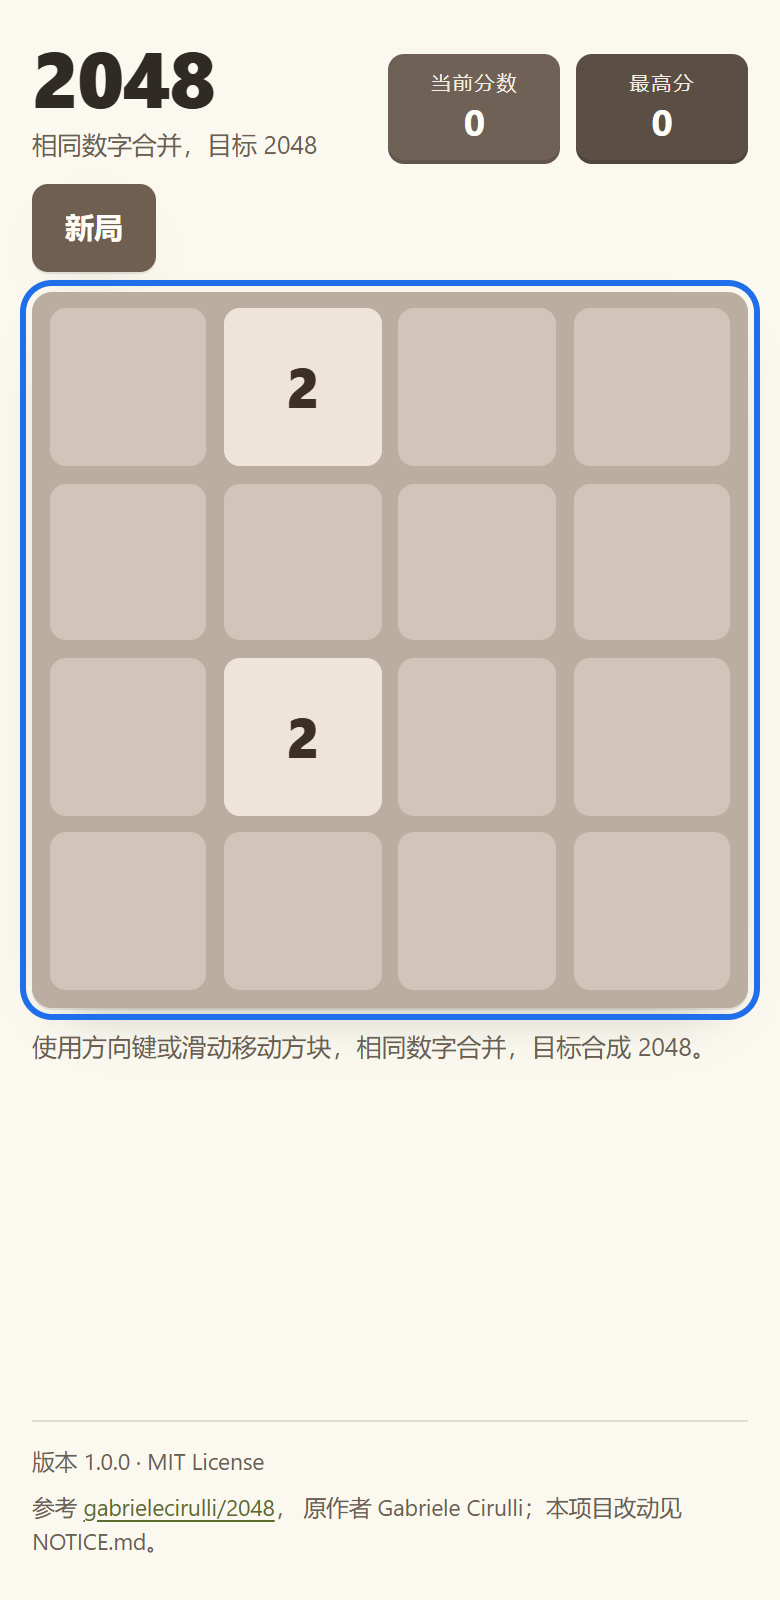
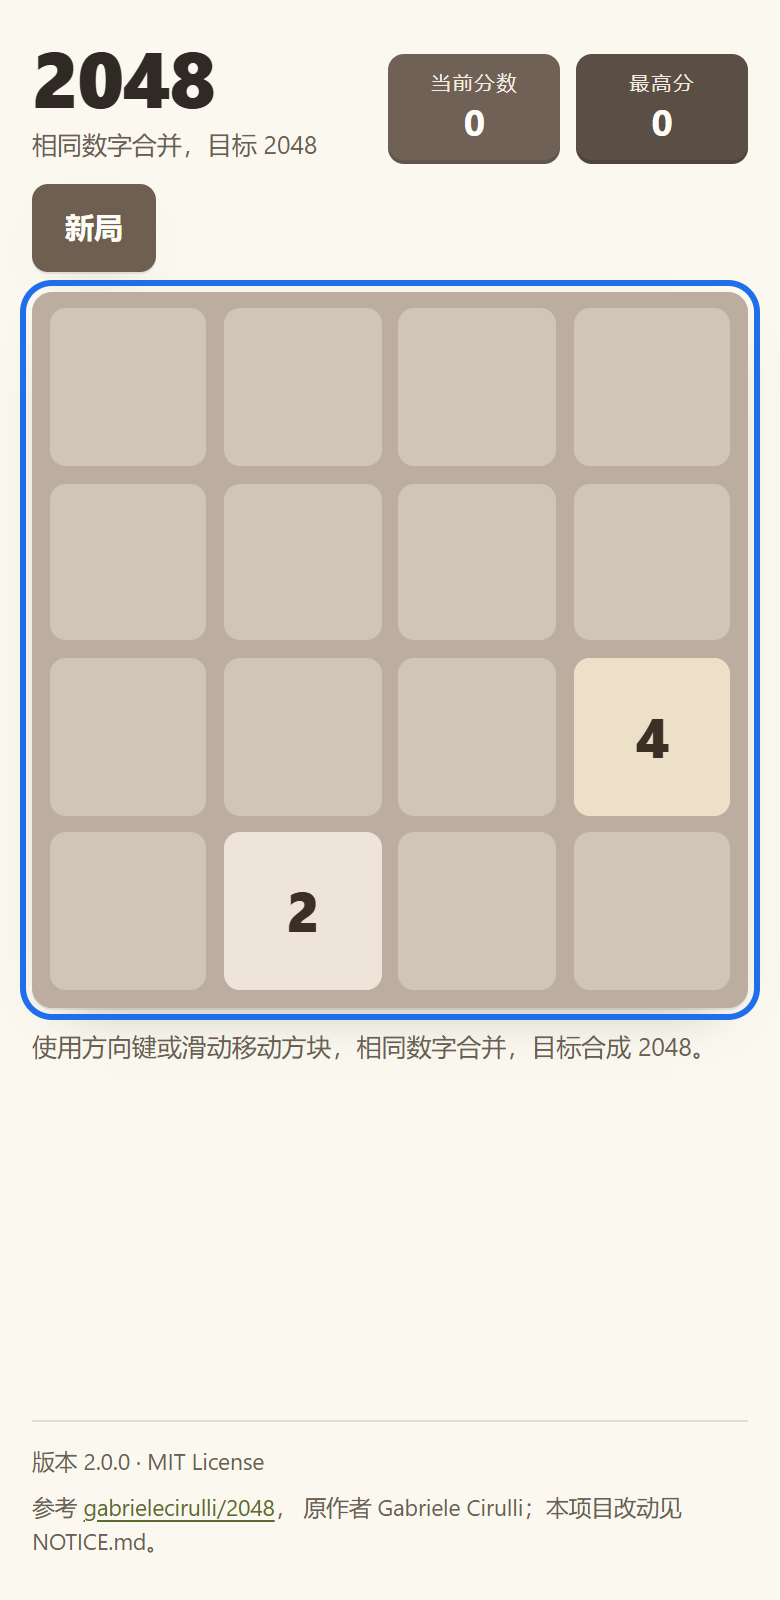
v2.0.0: positioning, release record, landscape info retained, version bump

Changed region(s): [[0.2769, 0.4062, 0.4923, 0.625], [0.2769, 0.1875, 0.4923, 0.3125], [0.7385, 0.4062, 0.9538, 0.5312]]

diff --git a/2048-standalone.html b/2048-standalone.html
@@ -628,7 +628,7 @@ a:focus-visible {
   </div>
 
   <footer class="footer">
-    <p>版本 1.0.0 · MIT License</p>
+    <p>版本 2.0.0 · MIT License</p>
     <p>
       参考
       <a href="https://github.com/gabrielecirulli/2048" rel="noopener noreferrer" target="_blank">gabrielecirulli/2048</a>，

diff --git a/index.html b/index.html
@@ -71,7 +71,7 @@
   </div>
 
   <footer class="footer">
-    <p>版本 1.0.0 · MIT License</p>
+    <p>版本 2.0.0 · MIT License</p>
     <p>
       参考
       <a href="https://github.com/gabrielecirulli/2048" rel="noopener noreferrer" target="_blank">gabrielecirulli/2048</a>，

diff --git a/docs/release-v2.0.0.md b/docs/release-v2.0.0.md
@@ -1,0 +1,102 @@
+# 2048 v2.0.0 发布、定位与验证记录
+
+发布日期：2026-10-20 · 对应 PRD：`PRD-2048 v2.0`（批准稿） · 版本文件：`VERSION` = `2.0.0`
+
+## 1. 定位
+
+**一句话**：一个打开即玩、不索取任何东西的 2048。
+
+**给谁用**
+
+| 用户 | 场景 | 这一版怎么满足 |
+|------|------|----------------|
+| 手机用户 | 通勤、排队时玩两分钟 | 单文件 `2048-standalone.html` 存进手机即可离线玩；触摸滑动；竖屏 320px 起可用 |
+| 键盘用户 | 桌面快速对局 | 方向键 / WASD；焦点常驻棋盘；弹层是真模态框；Esc 关闭胜利提示 |
+| 需要可访问性的人 | 读屏、低视力、晕动敏感 | `role="grid"` + 16 格方位标签；polite 播报每一步；AA 对比度；`prefers-reduced-motion` 降级；横屏不丢归属与操作说明 |
+| 二次开发者 | 想读规则、跑验收 | 纯函数引擎（可注入 RNG/时钟）+ 112 项自动化测试；无框架、无构建、源码一屏可读 |
+
+**刻意不做**：排行榜、账号、云存档（AT-013 按 PRD `D-003` 默认不交付）、埋点、PWA 离线包、音效、多语言。
+代价是没有跨设备进度；收益是任何静态托管甚至 `file://` 都能跑，且没有任何网络请求。
+
+## 2. 版本范围（2.0.0 相对 1.0.0）
+
+- 版本号统一到 `2.0.0`：`VERSION`、`package.json`、页面页脚。
+- 短横屏布局：`orientation: landscape and max-height: 560px` 改为双栏（棋盘 + 侧栏），
+  版本与 MIT 归属移入侧栏底部（`grid-area: meta`），不再 `display:none`。
+- ≤380px 高度时操作说明改为视觉隐藏（1px + `clip-path`），保留在可访问性树里，
+  因为棋盘 `aria-describedby="board-help"` 指向它。
+- 空格键在棋盘聚焦时被吞掉，避免把棋盘滚出视野。
+- 单文件构建 `2048-standalone.html`（`npm run build:single`）与离线测试 `tests/standalone.e2e.test.mjs`。
+- 新增 `tools/public-link.ps1`：把单文件版通过 localhost.run 的 SSH 隧道临时公开（仅用于验收演示）。
+
+## 3. 验证记录（本机实测，2026-10-20）
+
+环境：Windows + Node 24 + Microsoft Edge（headless）。浏览器矩阵仅 Edge/Chromium。
+
+| 项目 | 命令 | 结果 |
+|------|------|------|
+| 全量测试 | `node --test "tests/*.test.mjs"` | **112 passed / 0 failed**（约 20s，连续两次） |
+| 规则引擎 | `tests/engine.test.mjs` | 17 项：AT-002/003/003b/004、一步一合、四方向、`mergedIndices`、大于 2 的合并向量 |
+| 会话状态机 | `tests/session.test.mjs` | 10 项：AT-001/005（按合并数校正）/006/007、RNG 注入 |
+| 胜负判定 | `tests/outcome.test.mjs` | 12 项：AT-008/009/010/018、胜利优先于失败、Esc 只关胜利层 |
+| 存储与事件 | `tests/storage.test.mjs` | 12 项：AT-011/012、白名单、环形缓冲、抛错监听器 |
+| 随机不变量 | `tests/invariants.test.mjs` | 4 项：40 局 × 400 步 |
+| 加固用例 | `tests/hardening.test.mjs` | 9 项：`setBoard` 校验、读失败不覆盖最高分、raw backend、时钟注入 |
+| UI / 输入 / 读屏 | `tests/ui.e2e.test.mjs` | 16 项：键盘、CDP 触摸、弹层、焦点、`inert` |
+| 布局与对比度 | `tests/layout.e2e.test.mjs` | 9 项：320/390/768/1280、AA 对比度、44px 目标、焦点环 |
+| 焦点与真实触摸 | `tests/a11y-focus.e2e.test.mjs` | 11 项：Esc 焦点落点、遮罩不丢焦点、无效移动播报、空格不滚页、横屏归属可见、真实触摸滑动 |
+| 发布验收 | `tests/acceptance.e2e.test.mjs` | 8 项：AT-015/017、NFR-001/005/006、axe、可访问性树、`file://` |
+| 单文件版 | `tests/standalone.e2e.test.mjs` | 4 项：`file://` 无报错、胜负弹层、触摸、最高分跨刷新 |
+| 像素校验 | `python tests/visual_check.py` | **66 / 66**（三视口 16 格底色 + 弹层居中 + 棋盘正方形） |
+| 单步耗时 | `acceptance.e2e.test.mjs` | 200 步 p75 ≈ 2–3ms，最慢 ≈ 10ms（预算 100ms） |
+| 可访问性审计 | axe-core 4.14，WCAG 2.0/2.1 A+AA | 载入 / 胜利层 / 结束层：0 条 serious / critical |
+
+截图证据：`docs/screenshots/`（含 `standalone-mobile.png`、`geometry.json`）。
+
+## 4. 审查记录
+
+### 4.1 规则与状态审查（独立评审）
+
+- 用自己的 oracle 覆盖全部 625 种四格行、240k 组随机棋盘×方向、120k 次 `canMove`、60 局随机对局，**零分歧**。
+- 提出 5 项加固建议，全部落地并配 `tests/hardening.test.mjs`：
+  `setBoard` 输入校验、读失败不得覆盖最高分、`createGame` 接受原始 backend、最高分只认纯数字、时钟注入下的时长。
+- 结论：**通过**。
+
+### 4.2 UI 与可访问性审查（独立评审）
+
+- 1 项严重、5 项重要，全部修复并有回归测试：
+  1. 从非可聚焦区域获胜后 Esc 焦点落回 `<body>` → 现在校验触发控件并回退到棋盘；
+  2. 点击暗色遮罩会丢焦点 → 遮罩 `mousedown` 阻止默认 + `focusin` 守卫；
+  3. 无效移动完全静默 → 播报「无法向X移动」；
+  4. 存储横幅每次移动重写 → 仅内容变化时写；
+  5. 横屏布局溢出/信息丢失 → 双栏 + 归属与说明保留；
+  6. 读屏声明过度 → README 改为"未做人工读屏走查"。
+- 结论：**修复后通过**。
+
+### 4.3 交付前第三轮审阅（本轮）
+
+- 缺陷 1：横屏 `display:none` 掉了页脚与 `aria-describedby` 目标 → 已修（见第 2 节），
+  红证据：`footerVisible:false, describedDisplay:"none"`；修复后四档横屏 `describedVisible:true`。
+- 缺陷 2：320×420 下空格把页面滚动 219px → 已修，红证据 `afterSpace:219`。
+- 判定不是缺陷（不改）：方向键不节流、焦点可能回到页脚链接、两个 `role="status"`、`window.__2048` 暴露。
+- 完整报告：`docs/code-review-2026-10-20.md`。
+
+## 5. 已知限制（发布时必须一并说明）
+
+- **AT-013 当前局恢复未交付**（PRD `D-003` 默认项），页面不承诺"关闭后继续"。
+- **没有 NVDA / JAWS / VoiceOver 人工走查**：读屏证据是可访问性树断言与播报文案测试。
+- **浏览器矩阵仅 Edge/Chromium**：Firefox / Safari（尤其 `inert`、`100dvh`）未实测。
+- **键盘连按不节流**：按住方向键会连续移动并刷新播报。
+- **临时公网链接不是分发方案**：localhost.run 隧道随本机关机失效、地址每次变化；长期地址用 GitHub Pages。
+
+## 6. GitHub 仓库信息（复制即用）
+
+**Description**（≤350 字符）：
+
+```
+打开即玩的 2048：响应式、键盘+触摸、零依赖零构建、可离线单文件；含 112 项自动化测试与 axe/像素级验收记录。
+```
+
+**Topics**：`2048` `game` `vanilla-js` `no-dependencies` `accessibility` `a11y` `mobile` `static-site` `offline` `github-pages`
+
+**About 链接**：`https://zz-0005.github.io/2048/`

diff --git a/README.md b/README.md
@@ -1,6 +1,18 @@
 # 2048（PRD-2048 v2.0 实现）
 
+当前版本 **2.0.0**（发布与验证记录见 [`docs/release-v2.0.0.md`](docs/release-v2.0.0.md)）。
+
 响应式 2048 小游戏：桌面键盘 + 移动端触摸，纯静态、无后端、无框架、无构建步骤。
+
+## 定位
+
+**一个打开即玩、不索取任何东西的 2048。** 给三类人用：
+
+- **想在手机上随手玩两分钟的人**：单文件 `2048-standalone.html` 存到手机就能离线玩，不需要安装、不需要账号、没有广告和内购；
+- **用键盘的人**：方向键 / WASD 直接下棋，焦点在棋盘上，弹层是真正的模态框，Esc 关闭胜利提示；
+- **需要可访问性的人**：语速友好的播报文案、`role="grid"` 棋盘、AA 对比度、`prefers-reduced-motion` 降级、横竖屏都不丢信息。
+
+与常见的 2048 副本相比，这里刻意**只做规则本身**：不做排行榜、不做存档续玩、不埋点、不引入框架和构建链——代价是没有云端进度，收益是任何静态托管（甚至 `file://`）都能跑，源码一屏可读完。
 
 - 规则与状态机严格按 `PRD-2048 v2.0`（批准稿）实现
 - 规则引擎是纯函数模块，随机数可注入，验收用例可重复
